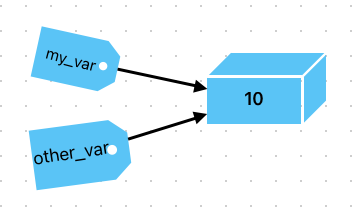
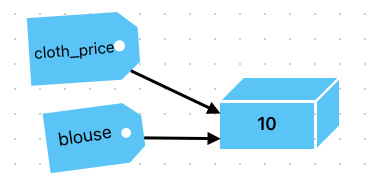
Changes the article and inserts more information and images

diff --git a/_posts/2025-03-05-Names-And-Values.md b/_posts/2025-03-05-Names-And-Values.md
@@ -1,21 +1,26 @@
 ---
-title: 'Dangers of Names and Values in Python: How Python deals with its "variables"'
+title: 'Dangers of Names and Values in Python: The differences between Python and Java "variables"'
 published: true
 ---
 
-Hi there, in this article you will read about some interested findings about how Python deals with names and values (variables) and why it is totally different from languages like Java, C, and others.
+Hi there, in this article you will read about some interested findings about how Python deals with names and values, convertionally called as variables, and why it is totally different from languages like Java, C, and others.
 
 #### [](#index) Index
 
 1.  Context
-1.  Item two
-1.  Item three
-1.  Item four
+1.  Variable creation in Java
+1.  Variable creation in Python
+1.  The danger in Python
 
 
 #### [](#context) Context
 
-First of all, a little bit of context. How a variable is created in languages like Java? By declaring its type, naming it and then assigning a value to it.
+When working with Java and Python, it is crucial to understand the fundamental differences in how these languages handle variable creation and memory management. While both languages provide mechanisms for referencing values in memory, their approaches differ significantly due to their underlying paradigms.
+
+#### [](#Variable-creation-in-Java) Variable creation in Java
+
+How a variable is created in languages like Java? By declaring its type, naming it and then assigning a value to it. This is needed because Java is a statically typed language, meaning that variable types must be explicitly declared at compile time.
+
 Like this:
 ```java
 class Main {
@@ -25,23 +30,44 @@ class Main {
     }
 }
 ```
-What do happen behind the scenes is that when you do `int myVar = 10;`, Java creates a space in the stack memory to store the value of `myVar`, but only because `int` is a primitive data type, otherwise, it would be stored in the _heap memory_, I won't go deeper on this topic. Within a variable you can find its data type and its value, the variable has its information.
+What do happen behind the scenes is that when you do `int myVar = 10;`, Java creates a space in the stack memory to store the value of `myVar`, but only because `int` is a primitive data type, otherwise, it would be stored in the _heap memory_, and the variable would only has a reference where to find the data in the _heap memory_.
 
-What happen within Python is just different, in Python there is no variable storing the data type, that's why Python is a dynamic programming language. **But, how Python deals with the "variables"?**
+Within a Java variable you can find its data type and its data value, the variable has its information. Which you will see that isn't the same for Python "variables".
 
-To understand that you should know that Python doesn't use the term variable, instead it uses the term _**name**_ that would be conventionally called a variable. So in Python we say a _**name**_ refers to a **_value_** or an _**object**_, but the _**name**_ don't contains the _**value/object**_, like a variable do. A good analogy is saying that your name refers to you but it don't contains you. There may even be multiple names for the same thing, just as you may have given a name and a nickname. A _**value**_ is a particular instance of data in memory.
+#### [](#Variable-creation-in-Java) Variable creation in Python
 
-To assign a value to a name in Python we can do like this:
+To understand that you should know that Python doesn't use the term variable, instead it uses the term _**name**_ that would be conventionally called a variable. So in Python we say a _**name**_ refers to a **_value_** or an _**object**_, but the _**name**_ doesn't contain the _**value/object**_, like a variable do. A good analogy is saying that your name refers to you but it don't contains you. There may even be multiple names for the same thing, just as you may have given a name and a nickname. A _**value**_ is a particular instance of data in memory.
+
+What happen in Python is just different, in Python there is no variable storing the data type, that's why Python in contrast, is dynamically typed and follows a name-binding model rather than direct memory assignment. Variables in Python are merely names that reference objects in memory. You can assign a _name_ firstly with a `float` value and in the very next line, use the same _name_ to assign a `int` value and no error will happen. Like this:
 ```python
-my_var = 10
-print(my_var) ## prints 10
+cloth_price = 19.99 ## Assigning a float
+cloth_price = 10 ## Assigning a int
 ```
+The code above demonstrates how assign a _value_ to a _name_ in Python. That way, the name `cloth_price` is bound to the value `10` which is in the memory, meaning that the name `cloth_price` can be used to refer the value `10` in memory. This operation of binding is referred as an _assigninment_.
 
-That way, the name `my_var` is bound to the value `10` that is in memory, what means that name can be used to refer the value in memory. This operation of binding is referred as an _assigninment_.
-
-If we assign other name to the name **_my_var_**, let say `other_var = my_var` the value 10 won't get copied but the name `other_name` will refer to the same original value as **_my_var_** is referring to.
+If we assign other name to the name `cloth_price`, let say `blouse = cloth_price` the value 10 won't get copied but the name `blouse` will refer to the same original value as `cloth_price` is bounded.
 
 The image below can ilustrate it better:
 
 ![](https://github.com/odravison/odravison.github.io/blob/main/not_included_assets/assigning_two_names_same_value.png?raw=true)
+
+What should happen if we modify the value referenced using the name `cloth_price`, will modify the value referenced by the name `blouse`? The answer is **NO**!
+
+The reason is when a variable is assigned in Python, it does not store a value directly but instead acts as a label pointing to an object in memory, so if we do that:
+
+```python
+cloth_price = 10
+blouse = cloth_price
+print(cloth_price) ## prints 10
+print(blouse) ## prints 10
+cloth_price = 13
+print(cloth_price) ## prints 13
+print(blouse) ## prints 10
+```
+It can be ilustrated as below:
+
+![](https://github.com/odravison/odravison.github.io/blob/main/not_included_assets/assigning_two_names_different_values.png?raw=true)
+
+As you can see, `cloth_price` and `blouse` both reference the same integer object 10. After the line `cloth_price = 13` is executed, in this case since integers are immutable in Python, any modification (`cloth_price = 13`) results in `cloth_price` pointing to a new object.
+
 
